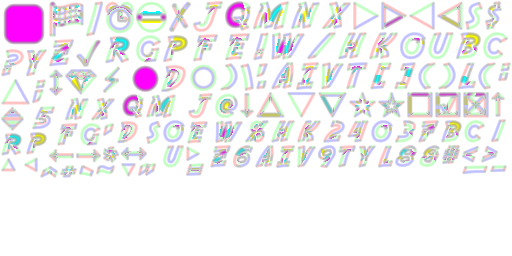
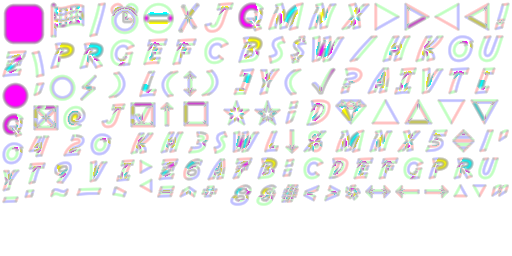
Add text matrix example and fix bugs and stuff

diff --git a/examples/webgl/html/index.js b/examples/webgl/html/index.js
@@ -444,6 +444,14 @@ const demos = [
 		source: 'https://github.com/CasualX/shade/blob/master/examples/demos/src/examples/textintro.rs',
 	},
 	{
+		id: 'textmatrix',
+		title: 'Text Matrix',
+		hint: 'Animated 3D streams of changing glyphs',
+		module: 'webgl.wasm',
+		constructor: 'new_textmatrix',
+		source: 'https://github.com/CasualX/shade/blob/master/examples/demos/src/examples/textmatrix.rs',
+	},
+	{
 		id: 'pixelart',
 		title: 'Pixel Art',
 		hint: 'Interactive texture filtering demo',

diff --git a/examples/demos/src/examples/textmatrix.rs b/examples/demos/src/examples/textmatrix.rs
@@ -1,0 +1,263 @@
+use std::fmt::Write as _;
+
+use crate::*;
+
+const STREAM_SLOTS: u32 = 56;
+const STREAM_CENTER: Vec3f = Vec3f(0.0, 0.0, 0.0);
+const MATRIX_SEED: u64 = 0x4D41_5452_4958_5241;
+const GLYPHS: &[u8] = b"0123456789ABCDEFGHIJKLMNOPQRSTUVWXYZabcdefghijklmnopqrstuvwxyz@#$%&*+-=<>?/\\|[]{}()";
+
+pub fn create(g: &mut dyn shade::IGraphics, assets: &dyn AssetLoader) -> Box<dyn DemoInterface> {
+	Box::new(TextMatrix::new(g, assets))
+}
+
+struct RainStream {
+	depth: f32,
+	position: Vec3f,
+	scale: f32,
+	font_size: f32,
+	alpha: f32,
+	glyph_seed: u64,
+	length: usize,
+	mutation_rate: f32,
+	palette_phase: f32,
+	pulse_phase: f32,
+}
+
+impl RainStream {
+	fn line_step(&self) -> f32 {
+		self.font_size * self.scale
+	}
+
+	fn plane_transform(&self, position: Vec3f, camera_position: Vec3f) -> Transform3f {
+		let to_camera = camera_position - position;
+		let yaw = Angle::atan2(to_camera.x, -to_camera.y);
+		Transform3f::translation(position) * Transform3f::rotation(Vec3f::Z, yaw) * Transform3f::rotation(Vec3f::X, Angle::deg(90.0))
+	}
+
+	fn head_position(&self) -> Vec3f {
+		self.position - Vec3f::Z * self.line_step() * (self.length - 1) as f32
+	}
+}
+
+struct TextMatrix {
+	font: d2::FontResource<shade::atlas::Font>,
+	camera: d3::ArcballCamera,
+	cursor: Vec2f,
+	left_drag: bool,
+}
+
+impl TextMatrix {
+	fn new(g: &mut dyn shade::IGraphics, assets: &dyn AssetLoader) -> TextMatrix {
+		let font = load_font(g, assets, "font/font.json", "font/font.png", true);
+		let camera = d3::ArcballCamera::new(Vec3f(0.0, -16.85, 0.6), STREAM_CENTER, Vec3f::Z);
+		TextMatrix {
+			font,
+			camera,
+			cursor: Vec2f::ZERO,
+			left_drag: false,
+		}
+	}
+
+	fn camera(&self, viewport: Bounds2i, time: f32) -> d3::Camera {
+		let aspect_ratio = viewport.width() as f32 / viewport.height().max(1) as f32;
+		let dolly = 0.75 - 0.75 * (time * 0.105).cos();
+		let mut animated_camera = self.camera.clone();
+		animated_camera.radius -= dolly * 0.75;
+		let position = animated_camera.position();
+		let hand = Hand::RH;
+		let view = animated_camera.view_matrix(hand);
+		let clip = Clip::NO;
+		let (near, far) = (0.01, 80.0);
+		let projection = Mat4::perspective(Angle::deg(54.0), aspect_ratio, near, far, (hand, clip));
+		let view_proj = projection * view;
+		let inv_view_proj = view_proj.inverse();
+		d3::Camera { viewport, aspect_ratio, position, near, far, view, projection, view_proj, inv_view_proj, clip }
+	}
+
+	fn streams(&self, time: f32) -> Vec<RainStream> {
+		let mut streams = Vec::with_capacity(STREAM_SLOTS as usize);
+		let mut matrix_rng = urandom::seeded(MATRIX_SEED);
+		for _ in 0..STREAM_SLOTS {
+			let mut slot_rng = matrix_rng.split();
+			let cycle = slot_rng.range(6.2f32..13.6);
+			let offset = slot_rng.range(0.0f32..cycle);
+			let stream_time = time + offset;
+			let generation = (stream_time / cycle).floor() as u32;
+			let age = stream_time % cycle;
+			let active_time = cycle - 1.15;
+			if age >= active_time {
+				continue;
+			}
+
+			let mut rng = urandom::seeded(slot_rng.next_u64() ^ generation as u64);
+			let depth = rng.range(0.2f32..13.0);
+			let x_extent = 4.6 + depth * 0.26;
+			let x = rng.range(-x_extent..x_extent);
+			let length = rng.range(9usize..24);
+			let font_size = rng.range(27.0f32..35.0);
+			let scale = rng.range(0.0115f32..0.016);
+			let line_step = font_size * scale;
+			let speed = rng.range(8.8f32..12.2) / active_time;
+			let head_start = rng.range(4.4f32..6.6);
+			let z = head_start + line_step * (length - 1) as f32 - speed * age;
+			let fade_in = smoothstep(0.0, 0.45, age);
+			let fade_out = smoothstep(0.0, 0.9, active_time - age);
+			let depth_alpha = 0.48 + (1.0 - depth / 13.0) * 0.52;
+			let mutation_rate = rng.range(5.0f32..14.0);
+			let palette_phase = rng.range(0.0f32..std::f32::consts::TAU);
+			let pulse_phase = rng.range(0.0f32..std::f32::consts::TAU);
+			let glyph_seed = rng.next_u64();
+
+			streams.push(RainStream {
+				depth,
+				position: Vec3f(x, depth - 6.6, z - 3.4),
+				scale,
+				font_size,
+				alpha: fade_in.min(fade_out) * depth_alpha,
+				glyph_seed,
+				length,
+				mutation_rate,
+				palette_phase,
+				pulse_phase,
+			});
+		}
+		streams
+	}
+
+	fn stream_text(&self, stream: &RainStream, time: f32) -> (String, char) {
+		let mut text = String::with_capacity(stream.length * 50);
+		let mutation_tick = (time * stream.mutation_rate).floor() as u32;
+		let palette_wave = 0.5 + 0.5 * (time * 1.7 + stream.palette_phase).sin();
+		let near = 1.0 - (stream.depth / 13.0).clamp(0.0, 1.0);
+		let mut head = '0';
+
+		for row in 0..stream.length {
+			let trail = row as f32 / (stream.length - 1) as f32;
+			let row_tick = mutation_tick / (1 + (row as u32 % 4));
+			let glyph_seed = stream.glyph_seed ^ ((row as u64) << 32) ^ row_tick as u64;
+			let mut glyph_rng = urandom::seeded(glyph_seed);
+			let mut glyph = *glyph_rng.choose(GLYPHS).unwrap() as char;
+			if row + 1 != stream.length && glyph_rng.chance(1.0 / 19.0) {
+				glyph = ' ';
+			}
+			if row + 1 == stream.length {
+				head = glyph;
+			}
+
+			let glow = trail.powf(1.45);
+			let (r, g, b);
+			if row + 1 == stream.length {
+				r = (175.0 + palette_wave * 75.0) as u8;
+				g = 255;
+				b = (200.0 + palette_wave * 55.0) as u8;
+			}
+			else {
+				r = (3.0 + glow * (34.0 + near * 20.0)) as u8;
+				g = (58.0 + glow * 184.0 + palette_wave * 10.0) as u8;
+				b = (18.0 + glow * (42.0 + (1.0 - near) * 30.0)) as u8;
+			};
+			let alpha = (255.0 * stream.alpha * (0.08 + 0.92 * glow)) as u8;
+			let outline_alpha = (alpha as f32 * (0.32 + glow * 0.22)) as u8;
+			let _ = write!(text, "\x1b[color=#{r:02X}{g:02X}{b:02X}{alpha:02X}]\x1b[outline=#001A08{outline_alpha:02X}]{glyph}");
+			if row + 1 != stream.length {
+				text.push('\n');
+			}
+		}
+		(text, head)
+	}
+
+	fn add_stream<'a>(&'a self, buf: &mut d2::TextBuffer3<'a>, stream: &RainStream, text: &str, position: Vec3f, camera_position: Vec3f, scribe: &d2::Scribe) {
+		buf.uniform.plane_transform = stream.plane_transform(position, camera_position);
+		buf.uniform.text.transform = Transform2f::compose(Vec2f(stream.scale, 0.0), Vec2f(0.0, -stream.scale), Vec2f::ZERO);
+		let bounds = Bounds2f::point(Vec2f::ZERO, Vec2f::ZERO);
+		buf.text_box(&self.font, scribe, &bounds, d2::TextAlign::TopCenter, text);
+	}
+}
+
+impl DemoInterface for TextMatrix {
+	fn input(&mut self, input: Input, _g: &mut dyn shade::IGraphics, shell: &mut dyn ShellServices) {
+		match input {
+			Input::MouseButton {
+				button: gui::MouseButton::LEFT,
+				pressed,
+				position,
+			} => {
+				self.cursor = position;
+				self.left_drag = pressed;
+			}
+			Input::MouseMove { position } => {
+				let delta = position - self.cursor;
+				self.cursor = position;
+				if self.left_drag {
+					self.camera.rotate(-delta.x, -delta.y);
+					shell.request_redraw();
+				}
+			}
+			_ => {}
+		}
+	}
+
+	fn draw(&mut self, frame: Frame, g: &mut dyn shade::IGraphics) {
+		let time = frame.time as f32;
+		g.begin(&shade::BeginArgs::BackBuffer { viewport: frame.viewport });
+		shade::clear!(g, color: Vec4(0.0, 0.008, 0.003, 1.0), depth: 1.0);
+
+		let camera = self.camera(frame.viewport, time);
+		let mut streams = self.streams(time);
+		streams.sort_by(|a, b| {
+			let a_distance = (a.position - camera.position).len_sqr();
+			let b_distance = (b.position - camera.position).len_sqr();
+			b_distance.total_cmp(&a_distance)
+		});
+		let mut buf = d2::TextBuffer3::new();
+		buf.blend_mode = shade::BlendMode::Alpha;
+		buf.depth_test = Some(shade::Compare::LessEqual);
+		buf.cull_mode = None;
+		buf.uniform.camera_transform = camera.view_proj;
+		buf.uniform.text.outline_width_relative = 0.12;
+
+		let mut heads = Vec::with_capacity(streams.len());
+		for stream in &streams {
+			let (text, head) = self.stream_text(stream, time);
+			let mut scribe = d2::Scribe {
+				font_size: stream.font_size,
+				line_height: stream.font_size,
+				letter_spacing: -1.0,
+				color: Vec4(0, 255, 70, 255),
+				outline: Vec4(0, 18, 5, 128),
+				..Default::default()
+			};
+			scribe.set_baseline_relative(0.5);
+			self.add_stream(&mut buf, stream, &text, stream.position, camera.position, &scribe);
+			heads.push((stream, head));
+		}
+
+		buf.blend_mode = shade::BlendMode::Additive;
+		buf.uniform.text.outline_width_relative = 0.24;
+		for (stream, head) in heads {
+			let pulse = 0.55 + 0.45 * (time * 7.0 + stream.pulse_phase).sin().abs();
+			let alpha = (stream.alpha * pulse * 145.0) as u8;
+			let mut scribe = d2::Scribe {
+				font_size: stream.font_size,
+				line_height: stream.font_size,
+				letter_spacing: -1.0,
+				color: Vec4(190, 255, 220, alpha),
+				outline: Vec4(0, 255, 90, alpha / 2),
+				..Default::default()
+			};
+			scribe.set_baseline_relative(0.5);
+			self.add_stream(
+				&mut buf,
+				stream,
+				&head.to_string(),
+				stream.head_position(),
+				camera.position,
+				&scribe,
+			);
+		}
+
+		buf.draw(g);
+		g.end();
+	}
+}

diff --git a/src/d2/scribe/v.rs b/src/d2/scribe/v.rs
@@ -92,8 +92,8 @@ impl ToVertexUV<TextVertex> for TextTemplate {
 pub struct TextUniform<'a> {
 	pub transform: Transform2f,
 	pub texture: &'a dyn Texture2D,
-	pub unit_range: Vec2f,
-	pub threshold: f32,
+	pub distance_range: f32,
+	pub distance_range_middle: f32,
 	pub out_bias: f32,
 	pub outline_width_absolute: f32,
 	pub outline_width_relative: f32,
@@ -105,8 +105,8 @@ impl<'a> Default for TextUniform<'a> {
 		TextUniform {
 			transform: Transform2::IDENTITY,
 			texture: &crate::DefaultTexture2D,
-			unit_range: Vec2::dup(4.0f32) / Vec2(232.0f32, 232.0f32),
-			threshold: 0.5,
+			distance_range: 4.0,
+			distance_range_middle: 0.0,
 			out_bias: 0.0,
 			outline_width_absolute: 1.0,
 			outline_width_relative: 0.125,
@@ -116,10 +116,15 @@ impl<'a> Default for TextUniform<'a> {
 
 impl<'a> UniformVisitor for TextUniform<'a> {
 	fn visit(&self, set: &mut dyn UniformSetter) {
+		let texture_info = self.texture.info();
+		let texture_size = Vec2(texture_info.width as f32, texture_info.height as f32);
+		let unit_range = Vec2::dup(self.distance_range) / texture_size;
+		let threshold = 0.5 - self.distance_range_middle / self.distance_range;
+
 		set.value("u_transform", &self.transform);
 		set.value("u_texture", self.texture);
-		set.value("u_unitRange", &self.unit_range);
-		set.value("u_threshold", &self.threshold);
+		set.value("u_unitRange", &unit_range);
+		set.value("u_threshold", &threshold);
 		set.value("u_outBias", &self.out_bias);
 		set.value("u_outlineWidthAbsolute", &self.outline_width_absolute);
 		set.value("u_outlineWidthRelative", &self.outline_width_relative);

diff --git a/examples/webgl/src/api.rs b/examples/webgl/src/api.rs
@@ -72,6 +72,11 @@ pub extern "C" fn new_textintro() -> *mut DemoHandle {
 }
 
 #[cfg_attr(target_family = "wasm", no_mangle)]
+pub extern "C" fn new_textmatrix() -> *mut DemoHandle {
+	into_handle(SharedContext::new(demos::examples::textmatrix::create))
+}
+
+#[cfg_attr(target_family = "wasm", no_mangle)]
 pub extern "C" fn new_pixelart() -> *mut DemoHandle {
 	into_handle(SharedContext::new(demos::examples::pixelart::create))
 }

diff --git a/examples/demos/src/examples/atlas.rs b/examples/demos/src/examples/atlas.rs
@@ -516,8 +516,8 @@ impl AtlasViewer {
 		buf.shader = Some(&*self.distance_shader);
 		buf.uniform.transform = Transform2::ortho(viewport.cast());
 		buf.uniform.texture = &*self.distance_texture;
-		buf.uniform.unit_range = Vec2::dup(meta.distance_range) / Vec2(meta.width as f32, meta.height as f32);
-		buf.uniform.threshold = 0.5 - meta.distance_range_middle / meta.distance_range;
+		buf.uniform.distance_range = meta.distance_range;
+		buf.uniform.distance_range_middle = meta.distance_range_middle;
 		buf.uniform.outline_width_absolute = 0.0;
 		buf.uniform.outline_width_relative = 0.0;
 

diff --git a/examples/demos/src/examples/text.rs b/examples/demos/src/examples/text.rs
@@ -81,7 +81,8 @@ impl DemoInterface for Text {
 		let mut cv = d2::TextBuffer::new();
 		cv.blend_mode = shade::BlendMode::Alpha;
 		cv.uniform.transform = Transform2::ortho(viewport.cast());
-		cv.uniform.unit_range = Vec2::dup(self.font.font.meta.distance_range) / Vec2(self.font.font.meta.width as f32, self.font.font.meta.height as f32);
+		cv.uniform.distance_range = self.font.font.meta.distance_range;
+		cv.uniform.distance_range_middle = self.font.font.meta.distance_range_middle;
 		cv.uniform.outline_width_relative = 0.125;
 
 		let panel_width = (viewport.width() as f32 - 80.0).clamp(300.0, 620.0);

diff --git a/examples/demos/src/examples.rs b/examples/demos/src/examples.rs
@@ -14,6 +14,7 @@ pub mod shadertoy;
 pub mod text;
 pub mod text3d;
 pub mod textintro;
+pub mod textmatrix;
 pub mod triangle;
 pub mod zeldawater;
 
@@ -45,6 +46,7 @@ const DEMOS: &[DemoEntry] = &[
 	DemoEntry { id: "shadertoy", create: shadertoy::create },
 	DemoEntry { id: "text3d", create: text3d::create },
 	DemoEntry { id: "textintro", create: textintro::create },
+	DemoEntry { id: "textmatrix", create: textmatrix::create },
 ];
 
 pub fn all() -> &'static [DemoEntry] {